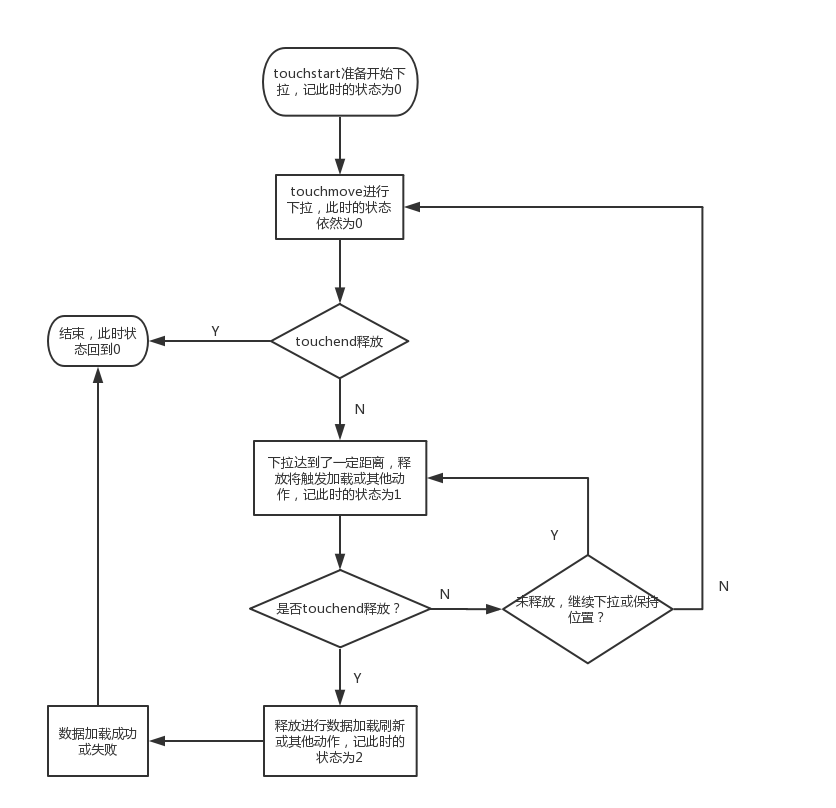
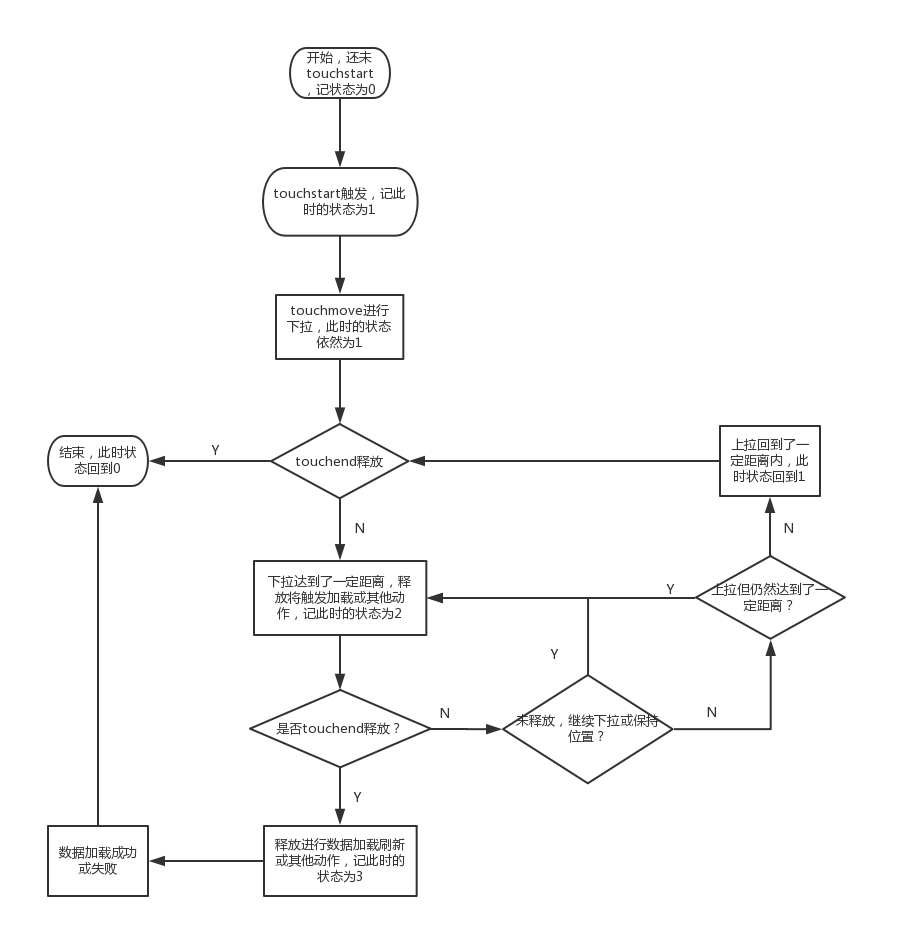
update

Changed region(s): [[0.0311, 0.0309, 0.933, 0.9901], [0.8086, 0.2475, 0.8397, 0.2785], [0.2488, 0.4022, 0.2799, 0.4332]]

diff --git a/前端/React/动手写一个react版下拉刷新上滑加载组件.md b/前端/React/动手写一个react版下拉刷新上滑加载组件.md
@@ -1,7 +1,6 @@
 > 本文记录了我在实现下拉刷新上滑加载功能时的过程，如果有更优的实现方式或者改进建议，欢迎反馈。
 
-首先，分析一下整个过程：
-1. touchstart准备开始下拉，可以记此时的状态为0；
-2. touchmove进行下拉，此时的状态依然为0；
-3. 下拉到一定距离，达到释放刷新条件，记此时的状态为1；
-4. 若此时touchend，将进入加载状态，记此时的状态
+首先分析下下拉刷新的整个流程，直接上图：  
+![Aaron Swartz](https://raw.githubusercontent.com/JoV5/blog/master/images/%E4%B8%8B%E6%8B%89%E5%88%B7%E6%96%B0.png)  
+
+根据流程图，代码编写就比较清晰了。  
